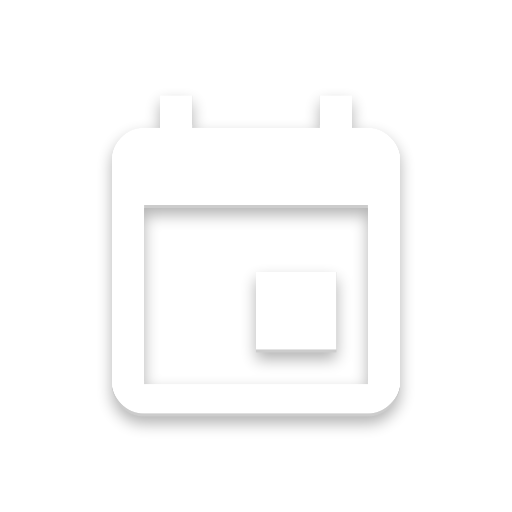
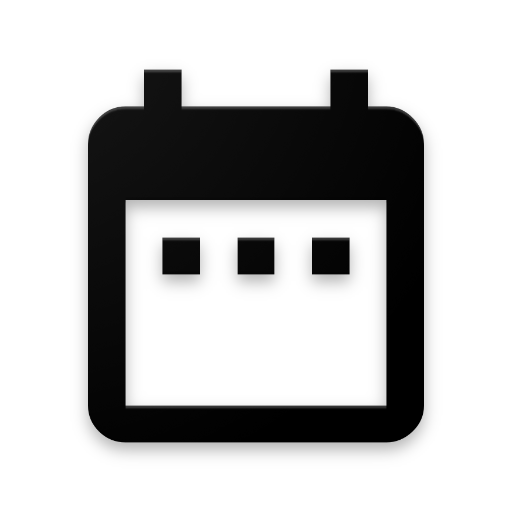
* Tokiota.sln: * App.xaml: * Tokiota.iOS.csproj: * Tokiota.projitems: * Tokiota.Droid.csproj: * MenuPage.xaml: * ic_calendar.png: * ic_faq_board.png: * ic_hamburguer.png: * ic_config_board.png: * HomeDetailPage.xaml: * ic_review_board.png: * ic_contact_board.png: * ic_profile_board.png: * ic_feature
* ic_calendar.png: Images Board

diff --git a/Tokiota/Views/HomeDetailPage.xaml b/Tokiota/Views/HomeDetailPage.xaml
@@ -1,17 +1,57 @@
 <?xml version="1.0" encoding="UTF-8"?>
-<ContentPage xmlns="http://xamarin.com/schemas/2014/forms" 
-    xmlns:x="http://schemas.microsoft.com/winfx/2009/xaml" 
-    xmlns:prism="clr-namespace:Prism.Mvvm;assembly=Prism.Forms" 
-    prism:ViewModelLocator.AutowireViewModel="True" 
-    x:Class="Tokiota.Views.HomeDetailPage"
-    Title="Home"
-    BackgroundColor="{StaticResource BackgroundColor}">
-    
-	<ContentPage.Content>
-        <Label Text="Home Page" 
-        VerticalOptions="Center" 
-        HorizontalOptions="Center" 
-        />
-    </ContentPage.Content>
+<ContentPage xmlns="http://xamarin.com/schemas/2014/forms" xmlns:x="http://schemas.microsoft.com/winfx/2009/xaml" xmlns:prism="clr-namespace:Prism.Mvvm;assembly=Prism.Forms" prism:ViewModelLocator.AutowireViewModel="True" x:Class="Tokiota.Views.HomeDetailPage" Title="Home" BackgroundColor="#f9f9f9">
+    <!--{StaticResource BackgroundColor}!-->
+    <ContentPage.Content>
+        <Grid Padding="15,50,15,50">
+            <Grid.RowDefinitions>
+                <RowDefinition Height="*" />
+                <RowDefinition Height="*" />
+                <RowDefinition Height="*" />
+            </Grid.RowDefinitions>
+            <Grid.ColumnDefinitions>
+                <ColumnDefinition Width="*" />
+                <ColumnDefinition Width="*" />
+                <ColumnDefinition Width="*" />
+            </Grid.ColumnDefinitions>
+            
+            <StackLayout Grid.Row="0" Grid.Column="0" Margin="2,10,2,10" Padding="0,2,2,0">
+                <Image Source="ic_calendar_board.png" VerticalOptions="Center" HorizontalOptions="Center">
+                </Image>
+                <Label Text="Timesheet" HorizontalTextAlignment="Center" Margin="0,15,0,0" TextColor="#1f1f1f">
+                </Label>
+            </StackLayout>
+            <StackLayout Grid.Row="0" Grid.Column="1" Padding="0,2,2,0" Margin="2,10,2,10">
+                <Image Source="ic_review_board.png" VerticalOptions="Center" HorizontalOptions="Center">
+                </Image>
+                <Label Text="Review" HorizontalTextAlignment="Center" Margin="0,15,0,0" TextColor="#1f1f1f">
+                </Label>
+            </StackLayout>
+            <StackLayout Grid.Row="0" Grid.Column="2" Padding="0,2,2,0" Margin="2,10,2,10">
+                <Image Source="ic_faq_board.png" VerticalOptions="Center" HorizontalOptions="Center">
+                </Image>
+                <Label Text="FAQ" HorizontalTextAlignment="Center" Margin="0,15,0,0" TextColor="#1f1f1f">
+                </Label>
+            </StackLayout>
 
+            <StackLayout Grid.Row="1" Grid.Column="0" Margin="2,10,2,10" Padding="0,2,2,0">
+                <Image Source="ic_profile_board.png" VerticalOptions="Center" HorizontalOptions="Center">
+                </Image>
+                <Label Text="Profile" HorizontalTextAlignment="Center" Margin="0,15,0,0" TextColor="#1f1f1f">
+                </Label>
+            </StackLayout>
+            <StackLayout Grid.Row="1" Grid.Column="1" Padding="0,2,2,0" Margin="2,10,2,10">
+                <Image Source="ic_config_board.png" VerticalOptions="Center" HorizontalOptions="Center">
+                </Image>
+                <Label Text="Configuration" HorizontalTextAlignment="Center" Margin="0,15,0,0" TextColor="#1f1f1f">
+                </Label>
+            </StackLayout>
+            <StackLayout Grid.Row="1" Grid.Column="2" Padding="0,2,2,0" Margin="2,10,2,10">
+                <Image Source="ic_contact_board.png" VerticalOptions="Center" HorizontalOptions="Center">
+                </Image>
+                <Label Text="Contact" HorizontalTextAlignment="Center" Margin="0,15,0,0" TextColor="#1f1f1f">
+                </Label>
+            </StackLayout>
+            
+        </Grid>
+    </ContentPage.Content>
 </ContentPage>

diff --git a/Tokiota/Views/MenuPage.xaml b/Tokiota/Views/MenuPage.xaml
@@ -1,5 +1,12 @@
 <?xml version="1.0" encoding="UTF-8"?>
-<ContentPage xmlns="http://xamarin.com/schemas/2014/forms" xmlns:x="http://schemas.microsoft.com/winfx/2009/xaml" x:Class="Tokiota.Views.MenuPage" xmlns:prism="clr-namespace:Prism.Mvvm;assembly=Prism.Forms" prism:ViewModelLocator.AutowireViewModel="True" Icon="ic_hamburguer.png" BackgroundColor="{StaticResource SecundaryBackgroundColor}" Title="{Binding Title}">
+<ContentPage xmlns="http://xamarin.com/schemas/2014/forms"
+    xmlns:x="http://schemas.microsoft.com/winfx/2009/xaml" 
+    x:Class="Tokiota.Views.MenuPage" 
+    xmlns:prism="clr-namespace:Prism.Mvvm;assembly=Prism.Forms" 
+    prism:ViewModelLocator.AutowireViewModel="True" 
+    Icon="ic_hamburguer.png" 
+    BackgroundColor="{StaticResource SecundaryBackgroundColor}" 
+    Title="{Binding Title}">
     <ContentPage.Content>
         <StackLayout Orientation="Vertical" VerticalOptions="StartAndExpand">
             <StackLayout BackgroundColor="{StaticResource PrimaryBackgroundColor}" VerticalOptions="FillAndExpand" HeightRequest="150">

diff --git a/Tokiota/App.xaml b/Tokiota/App.xaml
@@ -10,6 +10,7 @@
             <Color x:Key="TertiaryBackgroundColor">#0E3955</Color>
             <Color x:Key="QuinaryBackgroundColor">#003455</Color>
             <Color x:Key="SenaryBackgroundColor">#0C9DF6</Color>
+            
             <!--General Colors-->
             <Color x:Key="FontColor">#52656b</Color>
             <Color x:Key="FontMenuColor">#ffffff</Color>

diff --git a/Tokiota/Views/BaseNavigationPage.xaml b/Tokiota/Views/BaseNavigationPage.xaml
@@ -5,6 +5,7 @@
     xmlns:prism="clr-namespace:Prism.Mvvm;assembly=Prism.Forms" 
     prism:ViewModelLocator.AutowireViewModel="True" 
     Title="BaseNavigationPageView"
+    Icon="icon.png"
     x:Class="Tokiota.Views.BaseNavigationPage">
 	<ContentPage.Content>
 	</ContentPage.Content>
